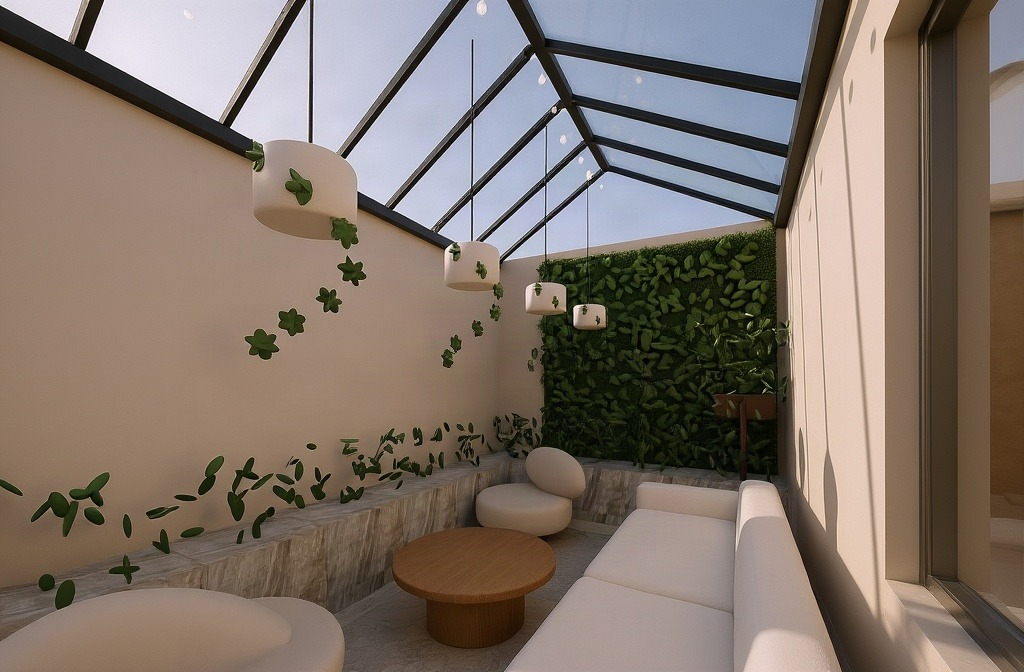
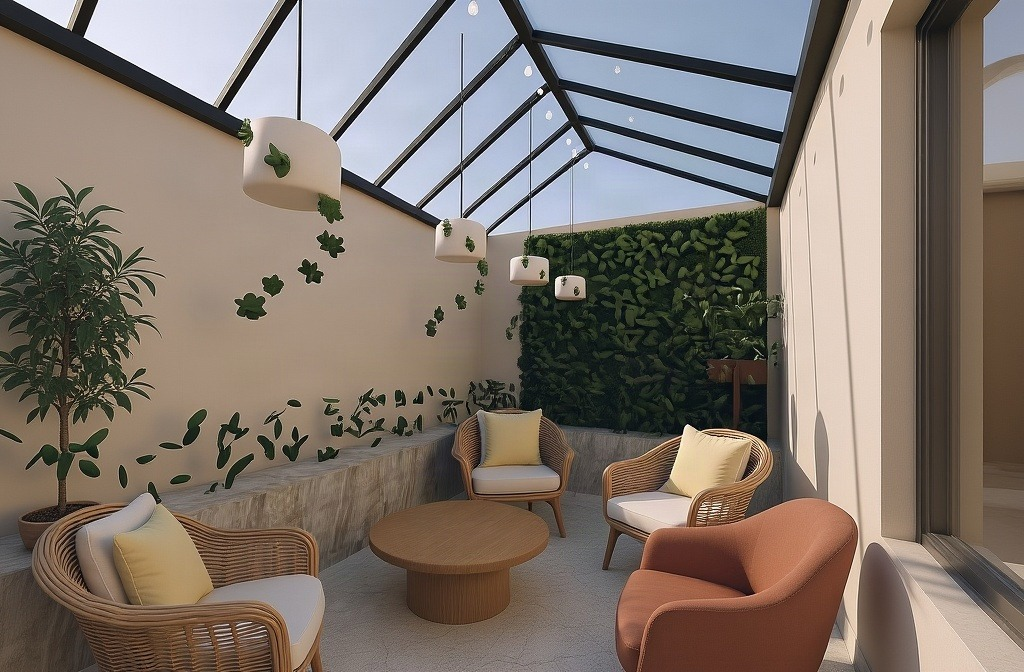
Greenhouse lounge: glass wall between family lounge and planted greenhouse sitting room
Claude-Session: https://claude.ai/code/session_01Y66GuRywBsTRh1cQJ3PYHH

diff --git a/design/renders/walk-page/index.html b/design/renders/walk-page/index.html
@@ -47,7 +47,7 @@ svg{width:100%;height:auto;display:block;min-height:80px;background:#24211D;bord
   </aside>
 </div>
 <script>
-const S=[{"img": "img/F2-01_Entrance_V1.jpg", "floor": 2, "room": "المدخل", "view": "1", "x": 5.95, "y": 7.7, "tx": 6.0, "ty": 4.0, "fov": 96.7}, {"img": "img/F2-01_Entrance_V2.jpg", "floor": 2, "room": "المدخل", "view": "2", "x": 6.0, "y": 4.75, "tx": 5.9, "ty": 7.9, "fov": 96.7}, {"img": "img/F2-01_Entrance_V3.jpg", "floor": 2, "room": "المدخل", "view": "3", "x": 6.3, "y": 7.45, "tx": 2.0, "ty": 6.9, "fov": 96.7}, {"img": "img/F2-02_FamilyLounge_V1.jpg", "floor": 2, "room": "الصالة العائلية", "view": "1", "x": 6.1, "y": 4.2, "tx": 9.8, "ty": 0.5, "fov": 96.7}, {"img": "img/F2-02_FamilyLounge_V2.jpg", "floor": 2, "room": "الصالة العائلية", "view": "2", "x": 5.9, "y": 2.0, "tx": 10.9, "ty": 2.0, "fov": 90.0}, {"img": "img/F2-02_FamilyLounge_V3.jpg", "floor": 2, "room": "الصالة العائلية", "view": "3", "x": 10.3, "y": 3.95, "tx": 5.3, "ty": 0.9, "fov": 96.7}, {"img": "img/F2-02_FamilyLounge_V4.jpg", "floor": 2, "room": "الصالة العائلية", "view": "4", "x": 8.8, "y": 0.55, "tx": 7.5, "ty": 4.3, "fov": 96.7}, {"img": "img/F2-03_Terrace_V1.jpg", "floor": 2, "room": "المشتل", "view": "1", "x": 4.95, "y": 2.85, "tx": 0.5, "ty": 0.6, "fov": 96.7}, {"img": "img/F2-03_Terrace_V2.jpg", "floor": 2, "room": "المشتل", "view": "2", "x": 1.0, "y": 2.75, "tx": 6.5, "ty": 1.2, "fov": 96.7}, {"img": "img/F2-03_Terrace_V3.jpg", "floor": 2, "room": "المشتل", "view": "3", "x": 4.45, "y": 2.72, "tx": 0.8, "ty": 0.6, "fov": 104.3}, {"img": "img/F2-09_GuestRoom_V1.jpg", "floor": 2, "room": "غرفة الضيوف", "view": "1", "x": 5.0, "y": 3.4, "tx": 2.0, "ty": 5.2, "fov": 96.7}, {"img": "img/F2-09_GuestRoom_V2.jpg", "floor": 2, "room": "غرفة الضيوف", "view": "2", "x": 2.0, "y": 5.3, "tx": 5.0, "ty": 3.3, "fov": 96.7}, {"img": "img/F2-10_GuestBath_V1.jpg", "floor": 2, "room": "حمام الضيوف", "view": "1", "x": 1.45, "y": 3.35, "tx": 0.3, "ty": 5.3, "fov": 104.3}, {"img": "img/F2-07_Office_V1.jpg", "floor": 2, "room": "المكتب", "view": "1", "x": 10.2, "y": 4.7, "tx": 8.3, "ty": 7.6, "fov": 96.7}, {"img": "img/F2-07_Office_V2.jpg", "floor": 2, "room": "المكتب", "view": "2", "x": 10.6, "y": 7.5, "tx": 8.2, "ty": 4.8, "fov": 96.7}, {"img": "img/F2-07_Office_V3.jpg", "floor": 2, "room": "المكتب", "view": "3", "x": 9.0, "y": 4.65, "tx": 10.9, "ty": 7.9, "fov": 96.7}, {"img": "img/F2-04_MasterBedroom_V1.jpg", "floor": 2, "room": "غرفة الماستر", "view": "1", "x": 13.1, "y": 5.0, "tx": 18.5, "ty": 7.5, "fov": 96.7}, {"img": "img/F2-04_MasterBedroom_V2.jpg", "floor": 2, "room": "غرفة الماستر", "view": "2", "x": 19.5, "y": 4.8, "tx": 13.2, "ty": 7.3, "fov": 96.7}, {"img": "img/F2-04_MasterBedroom_V3.jpg", "floor": 2, "room": "غرفة الماستر", "view": "3", "x": 17.6, "y": 4.7, "tx": 17.6, "ty": 7.9, "fov": 96.7}, {"img": "img/F2-04_MasterBedroom_V4.jpg", "floor": 2, "room": "غرفة الماستر", "view": "4", "x": 19.4, "y": 5.2, "tx": 17.8, "ty": 0.4, "fov": 96.7}, {"img": "img/F2-04b_MasterBath_V1.jpg", "floor": 2, "room": "حمام الماستر", "view": "1", "x": 11.9, "y": 5.75, "tx": 11.9, "ty": 7.9, "fov": 104.3}, {"img": "img/F2-04b_MasterBath_V2.jpg", "floor": 2, "room": "حمام الماستر", "view": "2", "x": 11.3, "y": 6.75, "tx": 12.7, "ty": 6.1, "fov": 104.3}, {"img": "img/F2-05_MasterDressing_V1.jpg", "floor": 2, "room": "غرفة الملابس والجلسة", "view": "1", "x": 17.8, "y": 4.2, "tx": 19.6, "ty": 1.0, "fov": 96.7}, {"img": "img/F2-05_MasterDressing_V2.jpg", "floor": 2, "room": "غرفة الملابس والجلسة", "view": "2", "x": 19.5, "y": 3.9, "tx": 16.9, "ty": 0.6, "fov": 96.7}, {"img": "img/F2-06_ChildBedroom_V1.jpg", "floor": 2, "room": "غرفة الطفل", "view": "1", "x": 13.1, "y": 3.95, "tx": 16.4, "ty": 0.6, "fov": 96.7}, {"img": "img/F2-06_ChildBedroom_V2.jpg", "floor": 2, "room": "غرفة الطفل", "view": "2", "x": 16.35, "y": 3.9, "tx": 13.0, "ty": 0.6, "fov": 96.7}, {"img": "img/F2-06_ChildBedroom_V3.jpg", "floor": 2, "room": "غرفة الطفل", "view": "3", "x": 14.7, "y": 4.1, "tx": 14.7, "ty": 0.2, "fov": 96.7}, {"img": "img/F2-08_ChildBath_V1.jpg", "floor": 2, "room": "حمام الطفل", "view": "1", "x": 12.2, "y": 3.1, "tx": 11.2, "ty": 0.4, "fov": 104.3}, {"img": "img/F2-08_ChildBath_V2.jpg", "floor": 2, "room": "حمام الطفل", "view": "2", "x": 11.6, "y": 0.6, "tx": 12.2, "ty": 3.2, "fov": 104.3}, {"img": "img/F1-05_Staircase_V3.jpg", "floor": 2, "room": "الدرج", "view": "3", "x": 4.9, "y": 7.45, "tx": 1.0, "ty": 6.3, "fov": 96.7}, {"img": "img/F1-05_Staircase_V2.jpg", "floor": 1, "room": "الدرج", "view": "2", "x": 0.6, "y": 6.2, "tx": 4.5, "ty": 7.4, "fov": 96.7}, {"img": "img/F1-05_Staircase_V1.jpg", "floor": 1, "room": "الدرج", "view": "1", "x": 4.9, "y": 5.85, "tx": 1.0, "ty": 6.5, "fov": 96.7}, {"img": "img/F1-01_StairHall_V1.jpg", "floor": 1, "room": "بهو الدرج", "view": "1", "x": 4.6, "y": 7.7, "tx": 4.6, "ty": 3.0, "fov": 96.7}, {"img": "img/F1-02_Living_V1.jpg", "floor": 1, "room": "المعيشة", "view": "1", "x": 4.55, "y": 4.85, "tx": 1.4, "ty": 1.6, "fov": 90.0}, {"img": "img/F1-02_Living_V2.jpg", "floor": 1, "room": "المعيشة", "view": "2", "x": 4.75, "y": 0.55, "tx": 1.4, "ty": 5.4, "fov": 90.0}, {"img": "img/F1-02_Living_V3.jpg", "floor": 1, "room": "المعيشة", "view": "3", "x": 4.85, "y": 3.3, "tx": 0.2, "ty": 3.1, "fov": 90.0}, {"img": "img/F1-02_Living_V4.jpg", "floor": 1, "room": "المعيشة", "view": "4", "x": 0.7, "y": 4.3, "tx": 10.0, "ty": 2.0, "fov": 96.7}, {"img": "img/F1-03_Dining_V1.jpg", "floor": 1, "room": "الطعام", "view": "1", "x": 5.8, "y": 3.9, "tx": 10.2, "ty": 1.1, "fov": 90.0}, {"img": "img/F1-03_Dining_V2.jpg", "floor": 1, "room": "الطعام", "view": "2", "x": 12.2, "y": 3.85, "tx": 5.8, "ty": 1.4, "fov": 96.7}, {"img": "img/F1-04_Kitchen_V1.jpg", "floor": 1, "room": "المطبخ", "view": "1", "x": 9.6, "y": 3.35, "tx": 9.6, "ty": 7.9, "fov": 96.7}, {"img": "img/F1-04_Kitchen_V2.jpg", "floor": 1, "room": "المطبخ", "view": "2", "x": 8.45, "y": 6.7, "tx": 10.9, "ty": 4.3, "fov": 96.7}, {"img": "img/F1-04_Kitchen_V3.jpg", "floor": 1, "room": "المطبخ", "view": "3", "x": 11.0, "y": 3.6, "tx": 8.3, "ty": 7.6, "fov": 90.0}, {"img": "img/F1-06_GuestWC_V1.jpg", "floor": 1, "room": "دورة مياه الضيوف", "view": "1", "x": 6.1, "y": 4.65, "tx": 6.1, "ty": 7.9, "fov": 96.7}, {"img": "img/F1-06_GuestWC_V2.jpg", "floor": 1, "room": "دورة مياه الضيوف", "view": "2", "x": 5.55, "y": 4.9, "tx": 6.9, "ty": 7.3, "fov": 104.3}, {"img": "img/facade_A_current.jpg", "floor": 0, "room": "الواجهة الحالية", "view": "", "x": 0, "y": 0, "tx": 0, "ty": 0, "fov": 0}, {"img": "img/facade_B_no_granite.jpg", "floor": 0, "room": "واجهة B بدون جرانيت", "view": "", "x": 0, "y": 0, "tx": 0, "ty": 0, "fov": 0}, {"img": "img/facade_C_budget_paint.jpg", "floor": 0, "room": "واجهة C اقتصادية", "view": "", "x": 0, "y": 0, "tx": 0, "ty": 0, "fov": 0}];const P={"1": {"w": 12.7, "rects": [["w", 0.0, 0.0, 7.8, 0.2], ["w", 10.3, 0.0, 2.4, 0.2], ["g", 7.8, 0.0, 2.5, 0.2], ["w", 0.0, 0.2, 0.2, 2.0], ["w", 0.0, 4.95, 0.2, 3.13], ["g", 0.0, 2.2, 0.2, 2.75], ["w", 0.0, 7.9, 11.2, 0.18], ["w", 11.0, 4.35, 0.2, 0.65], ["w", 11.0, 6.2, 0.2, 1.7], ["g", 11.0, 5.0, 0.2, 1.2], ["w", 11.2, 4.12, 1.5, 0.23], ["w", 12.5, 0.2, 0.2, 3.92], ["w", 0.2, 5.5, 3.95, 0.2], ["w", 5.05, 5.5, 0.1, 0.2], ["w", 5.15, 3.9, 0.2, 4.0], ["w", 5.35, 4.2, 0.25, 0.25], ["w", 6.4, 4.2, 0.5, 0.25], ["w", 6.9, 4.2, 1.3, 3.7], ["w", 5.15, 1.3, 0.2, 0.55]]}, "2": {"w": 20.0, "rects": [["w", 0.0, 0.0, 8.2, 0.2], ["w", 10.6, 0.0, 9.4, 0.2], ["g", 8.2, 0.0, 2.4, 0.2], ["w", 0.0, 0.2, 0.2, 7.88], ["w", 0.0, 7.9, 5.45, 0.18], ["w", 6.45, 7.9, 2.05, 0.18], ["w", 10.2, 7.9, 1.1, 0.18], ["w", 12.1, 7.9, 7.9, 0.18], ["g", 8.5, 7.9, 1.7, 0.18], ["g", 11.3, 7.9, 0.8, 0.18], ["w", 19.8, 0.2, 0.2, 1.75], ["w", 19.8, 3.45, 0.2, 1.15], ["w", 19.8, 6.0, 0.2, 1.9], ["g", 19.8, 1.95, 0.2, 1.5], ["g", 19.8, 4.6, 0.2, 1.4], ["w", 0.2, 5.5, 5.0, 0.2], ["w", 5.2, 3.0, 0.15, 0.3], ["w", 5.2, 4.2, 0.15, 2.8], ["w", 0.2, 3.0, 2.9, 0.2], ["w", 4.4, 3.0, 0.95, 0.2], ["g", 3.1, 3.0, 1.3, 0.2], ["w", 1.6, 3.2, 0.2, 0.25], ["w", 1.6, 4.2, 0.2, 1.3], ["w", 5.2, 0.2, 0.15, 0.6], ["w", 5.2, 2.2, 0.15, 0.8], ["g", 5.2, 0.8, 0.15, 1.4], ["w", 6.85, 4.3, 1.25, 3.6], ["w", 8.1, 4.3, 1.65, 0.2], ["w", 10.65, 4.3, 0.25, 0.2], ["w", 10.9, 4.3, 0.2, 3.6], ["w", 10.9, 4.3, 0.4, 0.2], ["w", 12.2, 4.3, 0.7, 0.2], ["w", 11.1, 5.45, 0.35, 0.15], ["w", 12.2, 5.45, 0.5, 0.15], ["w", 12.7, 4.5, 0.2, 0.05], ["w", 12.7, 5.4, 0.2, 2.5], ["w", 12.9, 4.3, 4.3, 0.2], ["w", 18.4, 4.3, 1.4, 0.2], ["w", 16.55, 0.2, 0.2, 4.1], ["w", 10.9, 0.2, 0.2, 3.0], ["w", 10.9, 3.2, 0.9, 0.2], ["w", 12.6, 3.2, 0.3, 0.2], ["w", 12.7, 0.2, 0.2, 3.0], ["w", 12.7, 3.4, 0.2, 0.05], ["w", 12.7, 4.25, 0.2, 0.05]]}};
+const S=[{"img": "img/F2-01_Entrance_V1.jpg", "floor": 2, "room": "المدخل", "view": "1", "x": 5.95, "y": 7.7, "tx": 6.0, "ty": 4.0, "fov": 96.7}, {"img": "img/F2-01_Entrance_V2.jpg", "floor": 2, "room": "المدخل", "view": "2", "x": 6.0, "y": 4.75, "tx": 5.9, "ty": 7.9, "fov": 96.7}, {"img": "img/F2-01_Entrance_V3.jpg", "floor": 2, "room": "المدخل", "view": "3", "x": 6.3, "y": 7.45, "tx": 2.0, "ty": 6.9, "fov": 96.7}, {"img": "img/F2-02_FamilyLounge_V1.jpg", "floor": 2, "room": "الصالة العائلية", "view": "1", "x": 6.1, "y": 4.2, "tx": 9.8, "ty": 0.5, "fov": 96.7}, {"img": "img/F2-02_FamilyLounge_V2.jpg", "floor": 2, "room": "الصالة العائلية", "view": "2", "x": 5.9, "y": 2.0, "tx": 10.9, "ty": 2.0, "fov": 90.0}, {"img": "img/F2-02_FamilyLounge_V3.jpg", "floor": 2, "room": "الصالة العائلية", "view": "3", "x": 10.3, "y": 3.95, "tx": 5.3, "ty": 0.9, "fov": 96.7}, {"img": "img/F2-02_FamilyLounge_V4.jpg", "floor": 2, "room": "الصالة العائلية", "view": "4", "x": 8.8, "y": 0.55, "tx": 7.5, "ty": 4.3, "fov": 96.7}, {"img": "img/F2-03_Terrace_V1.jpg", "floor": 2, "room": "المشتل", "view": "1", "x": 4.95, "y": 2.85, "tx": 0.5, "ty": 0.6, "fov": 96.7}, {"img": "img/F2-03_Terrace_V2.jpg", "floor": 2, "room": "المشتل", "view": "2", "x": 1.0, "y": 2.75, "tx": 6.5, "ty": 1.2, "fov": 96.7}, {"img": "img/F2-03_Terrace_V3.jpg", "floor": 2, "room": "المشتل", "view": "3", "x": 4.45, "y": 2.72, "tx": 0.8, "ty": 0.6, "fov": 104.3}, {"img": "img/F2-09_GuestRoom_V1.jpg", "floor": 2, "room": "غرفة الضيوف", "view": "1", "x": 5.0, "y": 3.4, "tx": 2.0, "ty": 5.2, "fov": 96.7}, {"img": "img/F2-09_GuestRoom_V2.jpg", "floor": 2, "room": "غرفة الضيوف", "view": "2", "x": 2.0, "y": 5.3, "tx": 5.0, "ty": 3.3, "fov": 96.7}, {"img": "img/F2-10_GuestBath_V1.jpg", "floor": 2, "room": "حمام الضيوف", "view": "1", "x": 1.45, "y": 3.35, "tx": 0.3, "ty": 5.3, "fov": 104.3}, {"img": "img/F2-07_Office_V1.jpg", "floor": 2, "room": "المكتب", "view": "1", "x": 10.2, "y": 4.7, "tx": 8.3, "ty": 7.6, "fov": 96.7}, {"img": "img/F2-07_Office_V2.jpg", "floor": 2, "room": "المكتب", "view": "2", "x": 10.6, "y": 7.5, "tx": 8.2, "ty": 4.8, "fov": 96.7}, {"img": "img/F2-07_Office_V3.jpg", "floor": 2, "room": "المكتب", "view": "3", "x": 9.0, "y": 4.65, "tx": 10.9, "ty": 7.9, "fov": 96.7}, {"img": "img/F2-04_MasterBedroom_V1.jpg", "floor": 2, "room": "غرفة الماستر", "view": "1", "x": 13.1, "y": 5.0, "tx": 18.5, "ty": 7.5, "fov": 96.7}, {"img": "img/F2-04_MasterBedroom_V2.jpg", "floor": 2, "room": "غرفة الماستر", "view": "2", "x": 19.5, "y": 4.8, "tx": 13.2, "ty": 7.3, "fov": 96.7}, {"img": "img/F2-04_MasterBedroom_V3.jpg", "floor": 2, "room": "غرفة الماستر", "view": "3", "x": 17.6, "y": 4.7, "tx": 17.6, "ty": 7.9, "fov": 96.7}, {"img": "img/F2-04_MasterBedroom_V4.jpg", "floor": 2, "room": "غرفة الماستر", "view": "4", "x": 19.4, "y": 5.2, "tx": 17.8, "ty": 0.4, "fov": 96.7}, {"img": "img/F2-04b_MasterBath_V1.jpg", "floor": 2, "room": "حمام الماستر", "view": "1", "x": 11.9, "y": 5.75, "tx": 11.9, "ty": 7.9, "fov": 104.3}, {"img": "img/F2-04b_MasterBath_V2.jpg", "floor": 2, "room": "حمام الماستر", "view": "2", "x": 11.3, "y": 6.75, "tx": 12.7, "ty": 6.1, "fov": 104.3}, {"img": "img/F2-05_MasterDressing_V1.jpg", "floor": 2, "room": "غرفة الملابس والجلسة", "view": "1", "x": 17.8, "y": 4.2, "tx": 19.6, "ty": 1.0, "fov": 96.7}, {"img": "img/F2-05_MasterDressing_V2.jpg", "floor": 2, "room": "غرفة الملابس والجلسة", "view": "2", "x": 19.5, "y": 3.9, "tx": 16.9, "ty": 0.6, "fov": 96.7}, {"img": "img/F2-06_ChildBedroom_V1.jpg", "floor": 2, "room": "غرفة الطفل", "view": "1", "x": 13.1, "y": 3.95, "tx": 16.4, "ty": 0.6, "fov": 96.7}, {"img": "img/F2-06_ChildBedroom_V2.jpg", "floor": 2, "room": "غرفة الطفل", "view": "2", "x": 16.35, "y": 3.9, "tx": 13.0, "ty": 0.6, "fov": 96.7}, {"img": "img/F2-06_ChildBedroom_V3.jpg", "floor": 2, "room": "غرفة الطفل", "view": "3", "x": 14.7, "y": 4.1, "tx": 14.7, "ty": 0.2, "fov": 96.7}, {"img": "img/F2-08_ChildBath_V1.jpg", "floor": 2, "room": "حمام الطفل", "view": "1", "x": 12.2, "y": 3.1, "tx": 11.2, "ty": 0.4, "fov": 104.3}, {"img": "img/F2-08_ChildBath_V2.jpg", "floor": 2, "room": "حمام الطفل", "view": "2", "x": 11.6, "y": 0.6, "tx": 12.2, "ty": 3.2, "fov": 104.3}, {"img": "img/F1-05_Staircase_V3.jpg", "floor": 2, "room": "الدرج", "view": "3", "x": 4.9, "y": 7.45, "tx": 1.0, "ty": 6.3, "fov": 96.7}, {"img": "img/F1-05_Staircase_V2.jpg", "floor": 1, "room": "الدرج", "view": "2", "x": 0.6, "y": 6.2, "tx": 4.5, "ty": 7.4, "fov": 96.7}, {"img": "img/F1-05_Staircase_V1.jpg", "floor": 1, "room": "الدرج", "view": "1", "x": 4.9, "y": 5.85, "tx": 1.0, "ty": 6.5, "fov": 96.7}, {"img": "img/F1-01_StairHall_V1.jpg", "floor": 1, "room": "بهو الدرج", "view": "1", "x": 4.6, "y": 7.7, "tx": 4.6, "ty": 3.0, "fov": 96.7}, {"img": "img/F1-02_Living_V1.jpg", "floor": 1, "room": "المعيشة", "view": "1", "x": 4.55, "y": 4.85, "tx": 1.4, "ty": 1.6, "fov": 90.0}, {"img": "img/F1-02_Living_V2.jpg", "floor": 1, "room": "المعيشة", "view": "2", "x": 4.75, "y": 0.55, "tx": 1.4, "ty": 5.4, "fov": 90.0}, {"img": "img/F1-02_Living_V3.jpg", "floor": 1, "room": "المعيشة", "view": "3", "x": 4.85, "y": 3.3, "tx": 0.2, "ty": 3.1, "fov": 90.0}, {"img": "img/F1-02_Living_V4.jpg", "floor": 1, "room": "المعيشة", "view": "4", "x": 0.7, "y": 4.3, "tx": 10.0, "ty": 2.0, "fov": 96.7}, {"img": "img/F1-03_Dining_V1.jpg", "floor": 1, "room": "الطعام", "view": "1", "x": 5.8, "y": 3.9, "tx": 10.2, "ty": 1.1, "fov": 90.0}, {"img": "img/F1-03_Dining_V2.jpg", "floor": 1, "room": "الطعام", "view": "2", "x": 12.2, "y": 3.85, "tx": 5.8, "ty": 1.4, "fov": 96.7}, {"img": "img/F1-04_Kitchen_V1.jpg", "floor": 1, "room": "المطبخ", "view": "1", "x": 9.6, "y": 3.35, "tx": 9.6, "ty": 7.9, "fov": 96.7}, {"img": "img/F1-04_Kitchen_V2.jpg", "floor": 1, "room": "المطبخ", "view": "2", "x": 8.45, "y": 6.7, "tx": 10.9, "ty": 4.3, "fov": 96.7}, {"img": "img/F1-04_Kitchen_V3.jpg", "floor": 1, "room": "المطبخ", "view": "3", "x": 11.0, "y": 3.6, "tx": 8.3, "ty": 7.6, "fov": 90.0}, {"img": "img/F1-06_GuestWC_V1.jpg", "floor": 1, "room": "دورة مياه الضيوف", "view": "1", "x": 6.1, "y": 4.65, "tx": 6.1, "ty": 7.9, "fov": 96.7}, {"img": "img/F1-06_GuestWC_V2.jpg", "floor": 1, "room": "دورة مياه الضيوف", "view": "2", "x": 5.55, "y": 4.9, "tx": 6.9, "ty": 7.3, "fov": 104.3}, {"img": "img/facade_A_current.jpg", "floor": 0, "room": "الواجهة الحالية", "view": "", "x": 0, "y": 0, "tx": 0, "ty": 0, "fov": 0}, {"img": "img/facade_B_no_granite.jpg", "floor": 0, "room": "واجهة B بدون جرانيت", "view": "", "x": 0, "y": 0, "tx": 0, "ty": 0, "fov": 0}, {"img": "img/facade_C_budget_paint.jpg", "floor": 0, "room": "واجهة C اقتصادية", "view": "", "x": 0, "y": 0, "tx": 0, "ty": 0, "fov": 0}];const P={"1": {"w": 12.7, "rects": [["w", 0.0, 0.0, 7.8, 0.2], ["w", 10.3, 0.0, 2.4, 0.2], ["g", 7.8, 0.0, 2.5, 0.2], ["w", 0.0, 0.2, 0.2, 2.0], ["w", 0.0, 4.95, 0.2, 3.13], ["g", 0.0, 2.2, 0.2, 2.75], ["w", 0.0, 7.9, 11.2, 0.18], ["w", 11.0, 4.35, 0.2, 0.65], ["w", 11.0, 6.2, 0.2, 1.7], ["g", 11.0, 5.0, 0.2, 1.2], ["w", 11.2, 4.12, 1.5, 0.23], ["w", 12.5, 0.2, 0.2, 3.92], ["w", 0.2, 5.5, 3.95, 0.2], ["w", 5.05, 5.5, 0.1, 0.2], ["w", 5.15, 3.9, 0.2, 4.0], ["w", 5.35, 4.2, 0.25, 0.25], ["w", 6.4, 4.2, 0.5, 0.25], ["w", 6.9, 4.2, 1.3, 3.7], ["w", 5.15, 1.3, 0.2, 0.55]]}, "2": {"w": 20.0, "rects": [["w", 0.0, 0.0, 8.2, 0.2], ["w", 10.6, 0.0, 9.4, 0.2], ["g", 8.2, 0.0, 2.4, 0.2], ["w", 0.0, 0.2, 0.2, 7.88], ["w", 0.0, 7.9, 5.45, 0.18], ["w", 6.45, 7.9, 2.05, 0.18], ["w", 10.2, 7.9, 1.1, 0.18], ["w", 12.1, 7.9, 7.9, 0.18], ["g", 8.5, 7.9, 1.7, 0.18], ["g", 11.3, 7.9, 0.8, 0.18], ["w", 19.8, 0.2, 0.2, 1.75], ["w", 19.8, 3.45, 0.2, 1.15], ["w", 19.8, 6.0, 0.2, 1.9], ["g", 19.8, 1.95, 0.2, 1.5], ["g", 19.8, 4.6, 0.2, 1.4], ["w", 0.2, 5.5, 5.0, 0.2], ["w", 5.2, 3.0, 0.15, 0.3], ["w", 5.2, 4.2, 0.15, 2.8], ["w", 0.2, 3.0, 2.9, 0.2], ["w", 4.4, 3.0, 0.95, 0.2], ["g", 3.1, 3.0, 1.3, 0.2], ["w", 1.6, 3.2, 0.2, 0.25], ["w", 1.6, 4.2, 0.2, 1.3], ["g", 5.2, 0.2, 0.15, 2.8], ["w", 6.85, 4.3, 1.25, 3.6], ["w", 8.1, 4.3, 1.65, 0.2], ["w", 10.65, 4.3, 0.25, 0.2], ["w", 10.9, 4.3, 0.2, 3.6], ["w", 10.9, 4.3, 0.4, 0.2], ["w", 12.2, 4.3, 0.7, 0.2], ["w", 11.1, 5.45, 0.35, 0.15], ["w", 12.2, 5.45, 0.5, 0.15], ["w", 12.7, 4.5, 0.2, 0.05], ["w", 12.7, 5.4, 0.2, 2.5], ["w", 12.9, 4.3, 4.3, 0.2], ["w", 18.4, 4.3, 1.4, 0.2], ["w", 16.55, 0.2, 0.2, 4.1], ["w", 10.9, 0.2, 0.2, 3.0], ["w", 10.9, 3.2, 0.9, 0.2], ["w", 12.6, 3.2, 0.3, 0.2], ["w", 12.7, 0.2, 0.2, 3.0], ["w", 12.7, 3.4, 0.2, 0.05], ["w", 12.7, 4.25, 0.2, 0.05]]}};
 let i=0;const $=id=>document.getElementById(id);
 const FL={1:'First Floor · الدور الأول',2:'Second Floor · الدور الثاني',0:'Facade · الواجهة'};
 function plan(s){

diff --git a/design/render/geometry.py b/design/render/geometry.py
@@ -42,7 +42,8 @@ L02_WALLS = [
     # nanny room / bath / terrace
     (0.2, 3.0, 5.35, 3.2, [(3.1, 4.4, 0.9, 2.4, 'window')]),
     (1.6, 3.2, 1.8, 5.5, [(3.45, 4.2, 0.0, 2.3, 'door')]),
-    (5.2, 0.2, 5.35, 3.0, [(0.8, 2.2, 0.0, 2.6, 'glass')]),
+    # greenhouse lounge: full-height glass wall with a glass door between the family lounge and the greenhouse
+    (5.2, 0.2, 5.35, 3.0, [(0.2, 3.0, 0.0, 3.0, 'glass')]),
     # corridor right wall + shaft (solid) + kids left wall
     (6.85, 4.3, 8.1, 7.9, []),
     # kids room bottom wall (living top wall)
